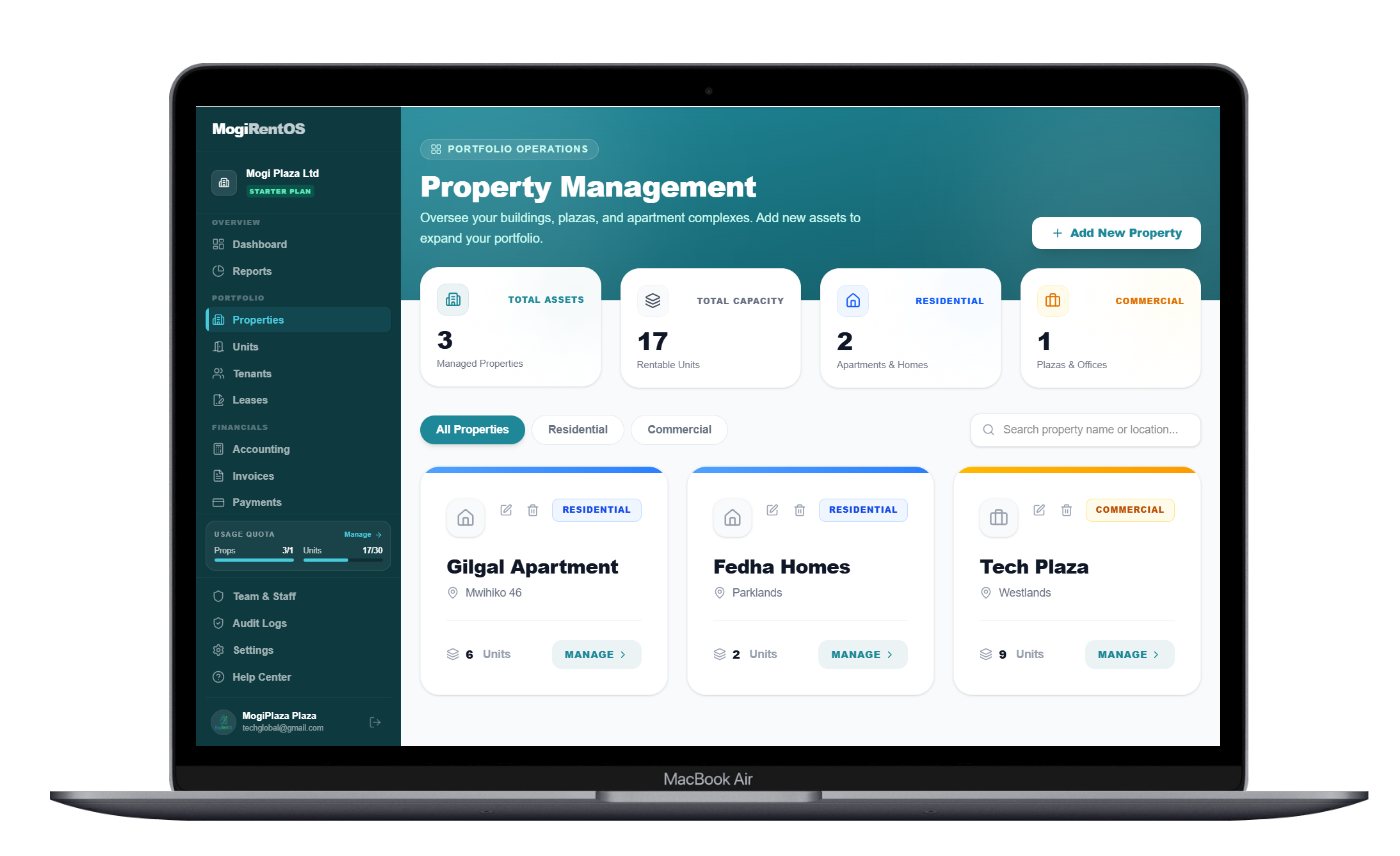
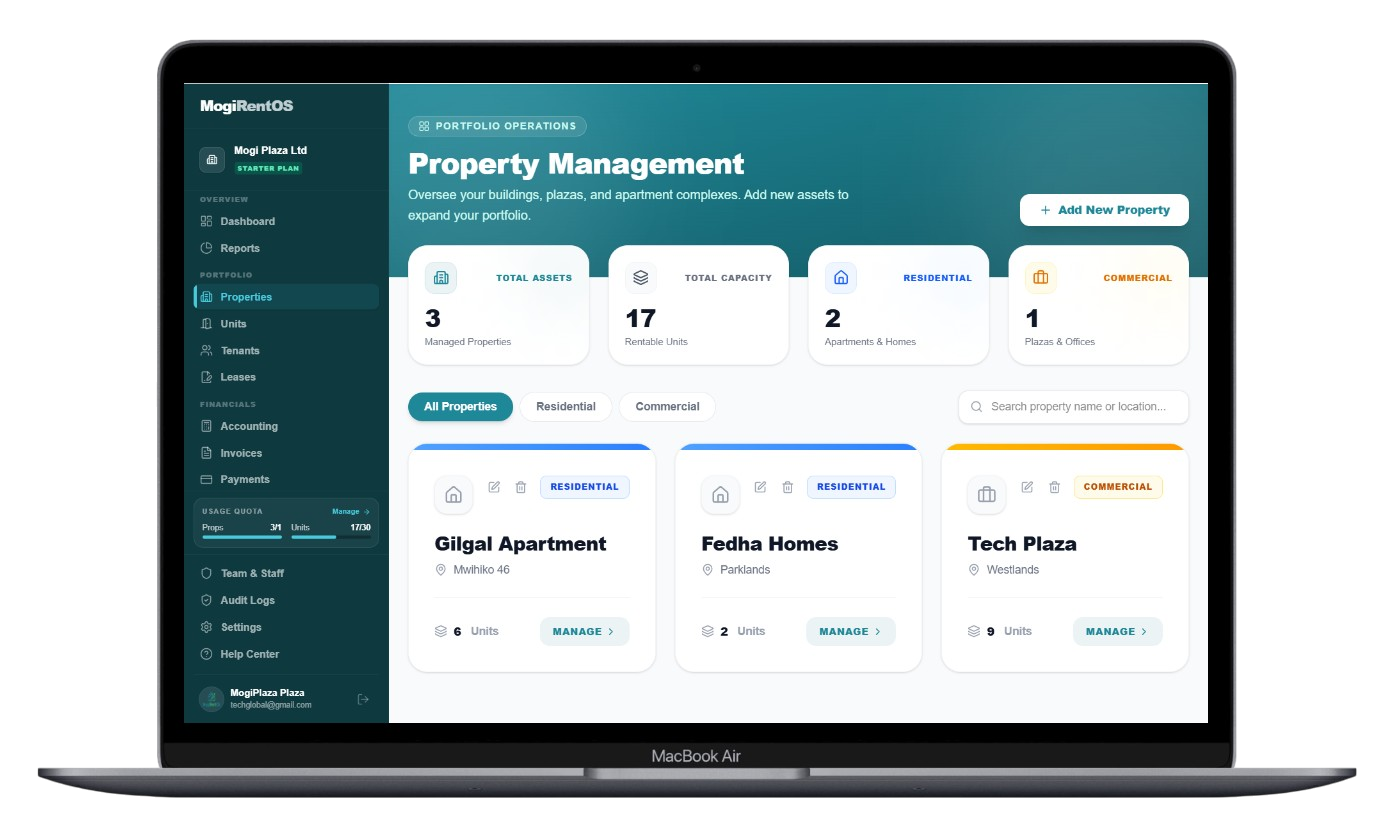
feat(home): removed property name restrictions, enabled property name redirection to marketplace

diff --git a/apps/web/app/page.tsx b/apps/web/app/page.tsx
@@ -552,12 +552,12 @@ export default function UnifiedHomePage() {
                   const isUnlocked = !!unlockedData;
 
                   return (
-                    <div key={listing.id} onClick={() => openDetailsModal(listing)} className="bg-white rounded-3xl border border-gray-100 overflow-hidden shadow-sm hover:shadow-xl hover:shadow-[#1f8898]/10 hover:border-[#1f8898]/40 hover:-translate-y-1 transition-all duration-300 flex flex-col group relative cursor-pointer">
+                    <div key={listing.id} className="bg-white rounded-3xl border border-gray-100 overflow-hidden shadow-sm hover:shadow-xl hover:shadow-[#1f8898]/10 hover:border-[#1f8898]/40 hover:-translate-y-1 transition-all duration-300 flex flex-col group relative">
                       <button onClick={(e) => toggleFavorite(e, listing.id)} className="absolute top-4 right-4 z-30 p-2.5 bg-white/90 backdrop-blur-md hover:bg-white rounded-full shadow-md transition-transform active:scale-90 border border-white">
                         <Heart className={`w-4 h-4 ${isFav ? 'text-rose-500 fill-rose-500' : 'text-gray-400'}`} />
                       </button>
 
-                      <div className="h-56 w-full relative overflow-hidden bg-gray-100">
+                      <div className="h-56 w-full relative overflow-hidden bg-gray-100 cursor-pointer" onClick={() => openDetailsModal(listing)}>
                         {listing.images?.[0] ? (
                            <img src={listing.images[0].url} alt="Property" className="w-full h-full object-cover group-hover:scale-105 transition-transform duration-700" />
                         ) : (
@@ -578,11 +578,15 @@ export default function UnifiedHomePage() {
                       </div>
 
                       <div className="p-5 flex-1 flex flex-col bg-white">
-                        <h3 className="text-xl font-black text-gray-900 leading-tight group-hover:text-[#1f8898] transition-colors truncate mb-1">
-                          Unit {listing.unit_number} <span className="text-gray-300 font-normal mx-1">•</span> {isUnlocked ? (unlockedData.exact_name || listing.property?.name) : 'Premium Listing'}
+                        <h3 className="text-xl font-black text-gray-900 leading-tight mb-1">
+                          <span>Unit {listing.unit_number}</span>
+                          <span className="text-gray-300 font-normal mx-1">•</span>
+                          <Link href={`/marketplace?id=${listing.id}`} className="text-[#1f8898] hover:underline transition-colors truncate inline-block align-bottom max-w-[200px]">
+                            {listing.property?.name}
+                          </Link>
                         </h3>
                         <p className="text-xs font-bold text-gray-500 flex items-center gap-1.5 mb-4 truncate">
-                          <MapPin className="w-3.5 h-3.5 text-[#1f8898]" /> {isUnlocked ? listing.property?.address : `${listing.property?.address || 'Unknown'} Area`}
+                          <MapPin className="w-3.5 h-3.5 text-[#1f8898]" /> {listing.property?.address}
                         </p>
 
                         <div className="flex gap-3 mb-4 text-xs font-bold text-gray-700 flex-wrap">
@@ -596,9 +600,9 @@ export default function UnifiedHomePage() {
                             <p className="text-[9px] uppercase tracking-widest font-black text-gray-400 mb-0.5">Monthly Rent</p>
                             <h4 className="text-xl font-black text-[#1f8898] leading-none">KSh {Number(listing.rent_amount).toLocaleString()}</h4>
                           </div>
-                          <div className={`p-2 rounded-xl transition-all ${isShortlisted ? 'bg-amber-50 text-amber-500' : 'bg-gray-50 text-gray-400 group-hover:bg-[#1f8898] group-hover:text-white'}`}>
+                          <Link href={`/marketplace?id=${listing.id}`} className="p-2 rounded-xl transition-all bg-gray-50 text-gray-400 hover:bg-[#1f8898] hover:text-white shadow-sm" title="View Property">
                             <ArrowRight className="w-4 h-4" />
-                          </div>
+                          </Link>
                         </div>
                       </div>
                     </div>
